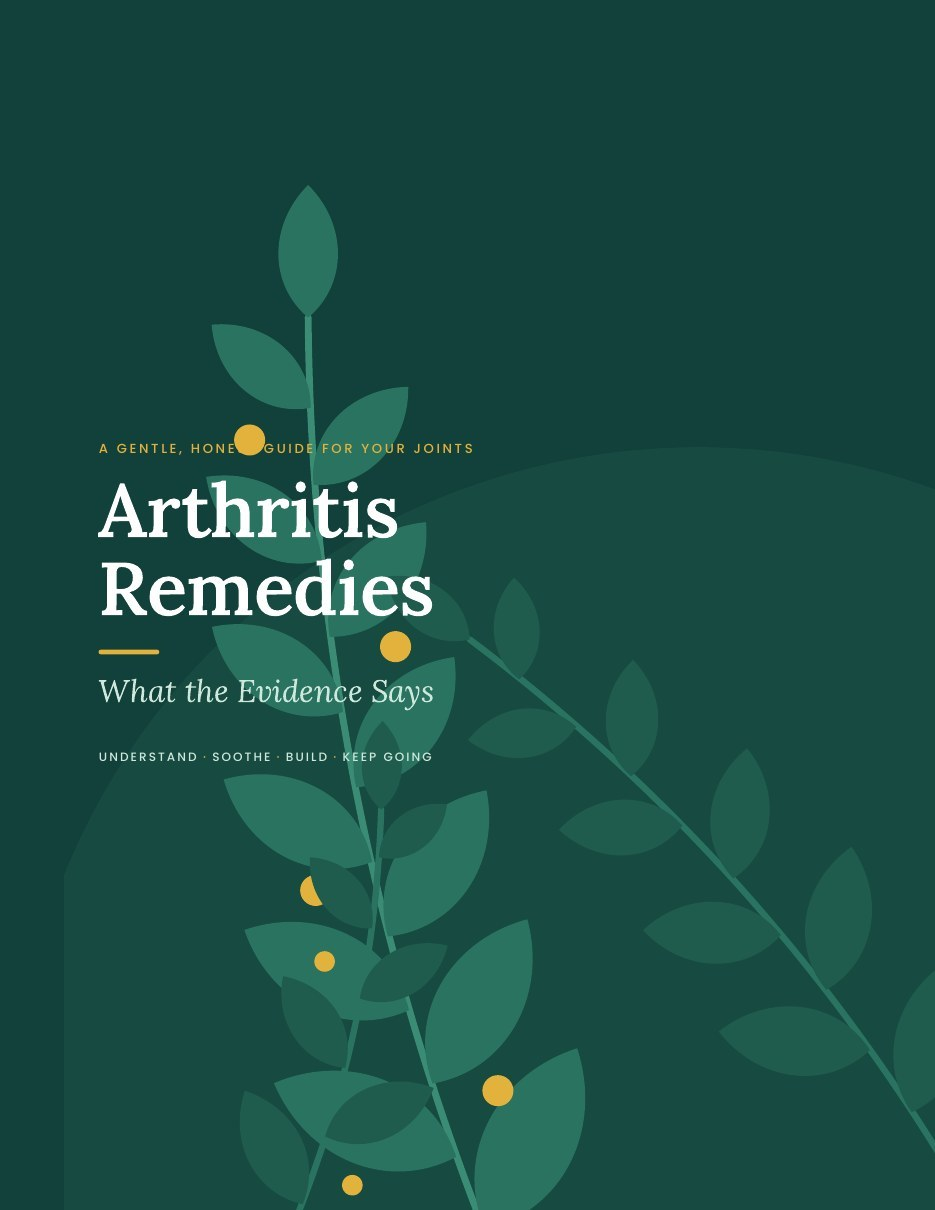
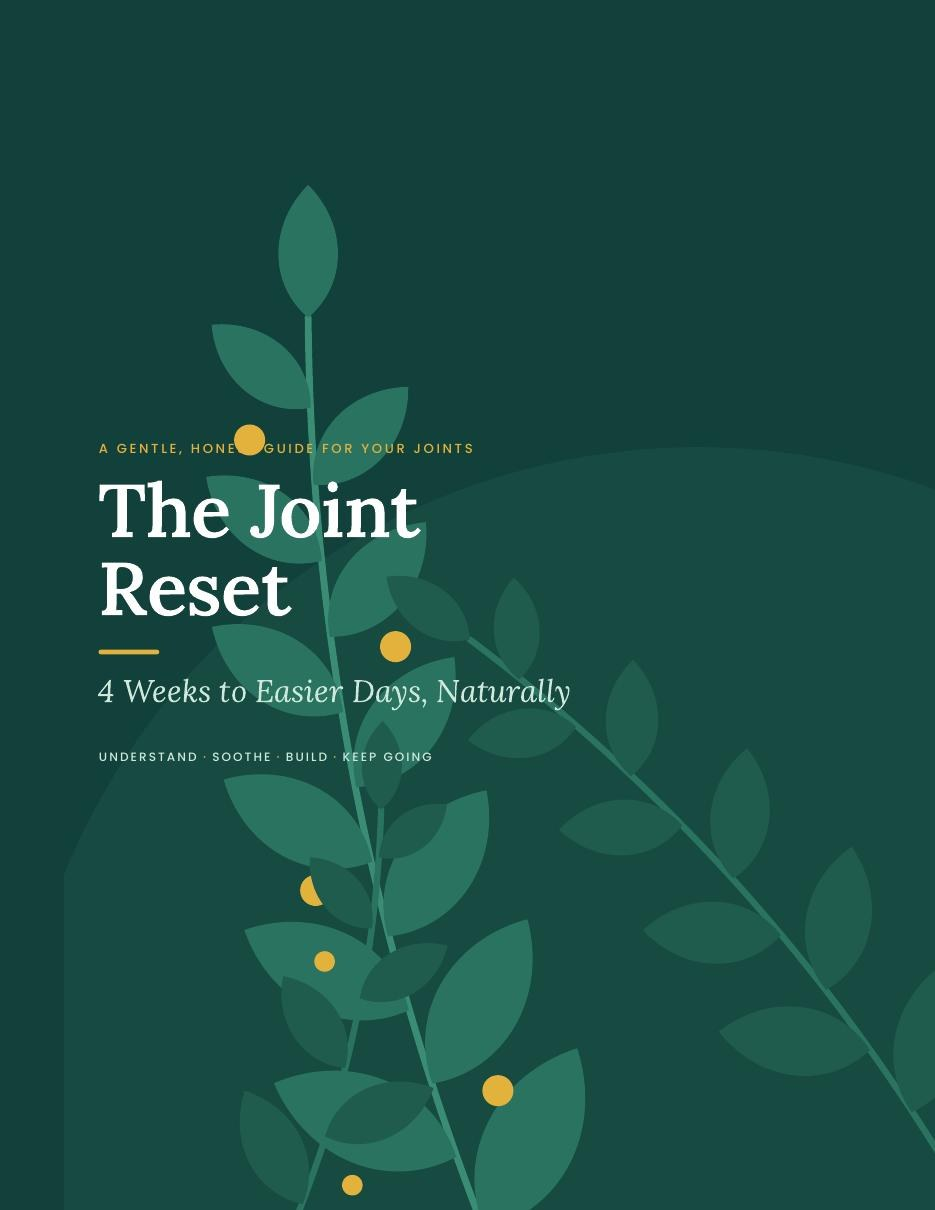
Rename site to Kinder Joints and guide to The Joint Reset; phone field first
Claude-Session: https://claude.ai/code/session_016AkRdspd5VkR5yRHHg7Zph

Changed region(s): [[0.093, 0.3975, 0.4652, 0.5198], [0.093, 0.5504, 0.6203, 0.581]]

diff --git a/signup.html b/signup.html
@@ -3,10 +3,10 @@
 <head>
 <meta charset="utf-8">
 <meta name="viewport" content="width=device-width, initial-scale=1">
-<title>Get your guide | Arthritis Remedies</title>
-<meta name="description" content="Tell us where to send your Arthritis Remedies guide.">
-<meta property="og:title" content="Get your guide | Arthritis Remedies">
-<meta property="og:description" content="Tell us where to send your Arthritis Remedies guide.">
+<title>Get your guide | Kinder Joints</title>
+<meta name="description" content="Tell us where to send your copy of The Joint Reset.">
+<meta property="og:title" content="Get your guide | Kinder Joints">
+<meta property="og:description" content="Tell us where to send your copy of The Joint Reset.">
 <meta property="og:type" content="website">
 <link rel="canonical" href="https://healthcure5.github.io/arthritis-remedies/signup.html">
 <meta property="og:url" content="https://healthcure5.github.io/arthritis-remedies/signup.html">
@@ -60,14 +60,14 @@ img{max-width:100%}
 <div class="bob" aria-hidden="true" style="position: absolute; left: 8%; bottom: 40px; width: 76px; height: 76px; border-radius: 50%; background: radial-gradient(circle at 32% 28%, #D3E5F7 0%, #A6CBEE 60%, #7FB1E3 100%); box-shadow: 0 18px 28px -10px rgba(8, 24, 48, 0.6)"></div>
 <a href="index.html" style="position: relative; display: flex; align-items: center; gap: 10px; text-decoration: none; color: #FFFFFF; font-family: 'Lora', Georgia, 'Times New Roman', serif; font-weight: 700; font-size: 22px; min-height: 44px">
 <svg aria-hidden="true" width="32" height="32" viewBox="0 0 32 32"><circle cx="16" cy="16" r="16" fill="#FFFFFF"/><path d="M9 17c3-6 11-6 14 0" stroke="#1A4FB0" stroke-width="3" fill="none" stroke-linecap="round"/><circle cx="16" cy="21" r="2.4" fill="#1A4FB0"/></svg>
-Arthritis Remedies
+Kinder Joints
 </a>
 <div style="position: relative">
 <h1 style="margin: 0; font-family: 'Lora', Georgia, 'Times New Roman', serif; font-weight: 700; font-size: clamp(34px, 4.2vw, 52px); line-height: 1.05; letter-spacing: -0.015em; color: #FFFFFF; text-shadow: 0 3px 0 #103A8A, 0 14px 24px rgba(8, 24, 48, 0.45)">You're one step from honest answers.</h1>
 <p style="margin: 18px 0 0; font-size: 18px; max-width: 460px">Tell us where to send your guide. It takes about ten seconds.</p>
 </div>
 <div style="position: relative; display: flex; align-items: center; gap: 34px; flex-wrap: wrap">
-<div class="bob" style="flex: none; width: 150px"><img width="935" height="1210" decoding="async" src="images/guide-cover.jpg" alt="Cover of the Arthritis Remedies guide" style="display: block; width: 100%; border-radius: 4px 9px 9px 4px; transform: perspective(900px) rotateY(18deg) rotate(-4deg); box-shadow: -6px 0 0 #0C2F2A, 0 18px 28px rgba(8, 24, 48, 0.4), 0 44px 56px -12px rgba(8, 24, 48, 0.7)"></div>
+<div class="bob" style="flex: none; width: 150px"><img width="935" height="1210" decoding="async" src="images/guide-cover.jpg" alt="Cover of The Joint Reset guide" style="display: block; width: 100%; border-radius: 4px 9px 9px 4px; transform: perspective(900px) rotateY(18deg) rotate(-4deg); box-shadow: -6px 0 0 #0C2F2A, 0 18px 28px rgba(8, 24, 48, 0.4), 0 44px 56px -12px rgba(8, 24, 48, 0.7)"></div>
 <ul style="flex: 1 1 220px; margin: 0; padding: 0; list-style: none; display: flex; flex-direction: column; gap: 14px; font-weight: 500; color: #FFFFFF">
 <li style="display: flex; gap: 12px; align-items: flex-start"><svg aria-hidden="true" width="24" height="24" viewBox="0 0 24 24" style="flex: none"><circle cx="12" cy="12" r="12" fill="#FFC56B"/><path d="M17 8.5 10.5 15 7 11.5" fill="none" stroke="#0A1F44" stroke-width="2.2" stroke-linecap="round" stroke-linejoin="round"/></svg><span>Sent to your inbox in minutes</span></li>
 <li style="display: flex; gap: 12px; align-items: flex-start"><svg aria-hidden="true" width="24" height="24" viewBox="0 0 24 24" style="flex: none"><circle cx="12" cy="12" r="12" fill="#FFC56B"/><path d="M17 8.5 10.5 15 7 11.5" fill="none" stroke="#0A1F44" stroke-width="2.2" stroke-linecap="round" stroke-linejoin="round"/></svg><span>Read on any screen, or print it</span></li>
@@ -80,13 +80,18 @@ Arthritis Remedies
 <div style="flex: 1.2 1 460px; min-width: 0; padding: clamp(28px, 5vw, 72px) clamp(20px, 5vw, 72px); box-sizing: border-box; display: flex; align-items: center; justify-content: center">
 <form class="settle" id="signup" name="guide-signup" method="POST" action="https://formsubmit.co/cgmandrez@gmail.com" novalidate style="width: 100%; max-width: 520px; background: #FFFFFF; border-radius: 32px; padding: clamp(26px, 4vw, 44px); box-sizing: border-box; box-shadow: inset 0 2px 0 #FFFFFF, 0 2px 4px rgba(16, 40, 74, 0.06), 0 18px 30px -10px rgba(16, 40, 74, 0.14), 0 60px 80px -34px rgba(16, 40, 74, 0.45); display: flex; flex-direction: column; gap: 20px">
 <input type="hidden" name="_next" value="https://healthcure5.github.io/arthritis-remedies/thank-you.html">
-<input type="hidden" name="_subject" value="New signup for the Arthritis Remedies guide">
+<input type="hidden" name="_subject" value="New signup for The Joint Reset guide">
 <input type="hidden" name="_template" value="table">
-<input type="hidden" name="_autoresponse" value="Welcome, and congratulations. Your Arthritis Remedies guide has arrived.&#10;&#10;We&#x27;re so glad you&#x27;re here. Asking for this guide was a real step toward easier days, and we don&#x27;t take that lightly.&#10;&#10;YOUR GUIDE IS READY. OPEN IT HERE:&#10;https://healthcure5.github.io/arthritis-remedies/arthritis-remedies-guide.pdf&#10;&#10;Here&#x27;s what is waiting for you inside:&#10;&#10;- Honest answers on which natural remedies are worth your time, and which you can happily let go of.&#10;- Clear labels on every remedy, so you know at a glance how strong the evidence is.&#10;- A gentle four-week plan that builds one small habit at a time.&#10;- Simple ways to track your progress, so you can see how far you&#x27;ve come.&#10;&#10;Want a good place to begin? Open the guide, read the first few pages (about five minutes), and choose one small thing to try this week. That&#x27;s all. Small steps add up faster than you&#x27;d think.&#10;&#10;There&#x27;s no rush and no falling behind. Some days will be easier than others. On the hard ones, be as kind to yourself as you would be to a dear friend.&#10;&#10;Keep this email somewhere safe, so your guide is always one tap away.&#10;&#10;We&#x27;re cheering for you.&#10;&#10;With care,&#10;Arthritis Remedies&#10;&#10;This guide offers general information, not personal medical advice. Please keep taking anything you have been prescribed, and talk with your doctor or pharmacist before starting a new remedy or supplement.">
+<input type="hidden" name="_autoresponse" value="Welcome, and congratulations. Your copy of The Joint Reset has arrived.&#10;&#10;We&#x27;re so glad you&#x27;re here. Asking for this guide was a real step toward easier days, and we don&#x27;t take that lightly.&#10;&#10;YOUR GUIDE IS READY. OPEN IT HERE:&#10;https://healthcure5.github.io/arthritis-remedies/the-joint-reset.pdf&#10;&#10;Here&#x27;s what is waiting for you inside:&#10;&#10;- Honest answers on which natural remedies are worth your time, and which you can happily let go of.&#10;- Clear labels on every remedy, so you know at a glance how strong the evidence is.&#10;- A gentle four-week plan that builds one small habit at a time.&#10;- Simple ways to track your progress, so you can see how far you&#x27;ve come.&#10;&#10;Want a good place to begin? Open the guide, read the first few pages (about five minutes), and choose one small thing to try this week. That&#x27;s all. Small steps add up faster than you&#x27;d think.&#10;&#10;There&#x27;s no rush and no falling behind. Some days will be easier than others. On the hard ones, be as kind to yourself as you would be to a dear friend.&#10;&#10;Keep this email somewhere safe, so your guide is always one tap away.&#10;&#10;We&#x27;re cheering for you.&#10;&#10;With care,&#10;Kinder Joints&#10;&#10;This guide offers general information, not personal medical advice. Please keep taking anything you have been prescribed, and talk with your doctor or pharmacist before starting a new remedy or supplement.">
 <input type="text" name="_honey" tabindex="-1" autocomplete="off" aria-hidden="true" style="display: none">
 <div>
 <div style="font-size: 14px; font-weight: 700; letter-spacing: 0.14em; text-transform: uppercase; color: #1A4FB0">Step 2 of 3</div>
 <h2 style="margin: 8px 0 0; font-family: 'Lora', Georgia, 'Times New Roman', serif; font-weight: 700; font-size: 32px; line-height: 1.1; color: #0A1F44">Where should we send it?</h2>
+</div>
+<div style="display: flex; flex-direction: column; gap: 7px">
+<label for="phone" style="font-weight: 600; font-size: 15.5px; color: #0A1F44">Phone number <span style="font-weight: 400; color: #4F6580">(optional)</span></label>
+<input id="phone" name="Phone number" type="tel" inputmode="tel" autocomplete="tel" placeholder="(555) 123-4567" style="font: inherit; padding: 14px 16px; border: 1.5px solid #AEC6DF; border-radius: 14px; background: #F4F8FC; color: #0A1F44; width: 100%; box-sizing: border-box; min-height: 52px; box-shadow: inset 0 3px 6px rgba(16, 40, 74, 0.1)">
+<span style="font-size: 14px; color: #4F6580">Only if you'd like us to be able to reach you by phone.</span>
 </div>
 <div style="display: flex; flex-wrap: wrap; gap: 16px">
 <div style="flex: 1 1 180px; min-width: 0; display: flex; flex-direction: column; gap: 7px">
@@ -98,11 +103,6 @@ Arthritis Remedies
 <label for="email" style="font-weight: 600; font-size: 15.5px; color: #0A1F44">Email address</label>
 <input id="email" name="email" type="email" autocomplete="email" placeholder="jane@example.com" style="font: inherit; padding: 14px 16px; border: 1.5px solid #AEC6DF; border-radius: 14px; background: #F4F8FC; color: #0A1F44; width: 100%; box-sizing: border-box; min-height: 52px; box-shadow: inset 0 3px 6px rgba(16, 40, 74, 0.1)">
 <span style="font-size: 14px; color: #4F6580">We'll email your guide here.</span>
-</div>
-<div style="display: flex; flex-direction: column; gap: 7px">
-<label for="phone" style="font-weight: 600; font-size: 15.5px; color: #0A1F44">Phone number <span style="font-weight: 400; color: #4F6580">(optional)</span></label>
-<input id="phone" name="Phone number" type="tel" inputmode="tel" autocomplete="tel" placeholder="(555) 123-4567" style="font: inherit; padding: 14px 16px; border: 1.5px solid #AEC6DF; border-radius: 14px; background: #F4F8FC; color: #0A1F44; width: 100%; box-sizing: border-box; min-height: 52px; box-shadow: inset 0 3px 6px rgba(16, 40, 74, 0.1)">
-<span style="font-size: 14px; color: #4F6580">Only if you'd like us to be able to reach you by phone.</span>
 </div>
 <label style="display: flex; gap: 12px; align-items: flex-start; font-size: 15.5px; cursor: pointer; min-height: 44px">
 <input type="checkbox" name="Wants tips by email" value="Yes" style="width: 22px; height: 22px; margin: 2px 0 0; accent-color: #1A4FB0; flex: none">

diff --git a/index.html b/index.html
@@ -3,9 +3,9 @@
 <head>
 <meta charset="utf-8">
 <meta name="viewport" content="width=device-width, initial-scale=1">
-<title>Arthritis Remedies: a gentle, honest guide to joint care</title>
+<title>Kinder Joints: a gentle, honest guide to joint care</title>
 <meta name="description" content="Find out which natural arthritis remedies are worth your time, which to let go of, and how to build a simple daily routine, one small step at a time.">
-<meta property="og:title" content="Arthritis Remedies: a gentle, honest guide to joint care">
+<meta property="og:title" content="Kinder Joints: a gentle, honest guide to joint care">
 <meta property="og:description" content="Find out which natural arthritis remedies are worth your time, which to let go of, and how to build a simple daily routine, one small step at a time.">
 <meta property="og:type" content="website">
 <link rel="canonical" href="https://healthcure5.github.io/arthritis-remedies/">
@@ -90,7 +90,7 @@ section[id]{scroll-margin-top:84px}
 <div class="hdr-in" style="max-width: 1180px; margin: 0 auto; padding: 18px 24px; display: flex; flex-wrap: wrap; align-items: center; justify-content: space-between; gap: 12px 28px">
 <a class="hdr-brand" href="#top" style="display: flex; align-items: center; gap: 10px; text-decoration: none; color: #0A1F44; font-family: 'Lora', Georgia, 'Times New Roman', serif; font-weight: 700; font-size: 22px; min-height: 44px">
 <svg aria-hidden="true" width="32" height="32" viewBox="0 0 32 32"><circle cx="16" cy="16" r="16" fill="#1A4FB0"/><path d="M9 17c3-6 11-6 14 0" stroke="#FFC56B" stroke-width="3" fill="none" stroke-linecap="round"/><circle cx="16" cy="21" r="2.4" fill="#FFC56B"/></svg>
-Arthritis Remedies
+Kinder Joints
 </a>
 <nav class="hdr-nav" aria-label="Main" style="display: flex; flex-wrap: wrap; align-items: center; gap: 4px 28px; font-size: 15.5px; font-weight: 500">
 <a href="#how" class="hdr-link" style="color: #0A1F44; text-decoration: none; padding: 11px 0">How it works</a>
@@ -377,7 +377,7 @@ One small step today
 <section id="get" style="background: #F4F8FC">
 <div style="max-width: 1180px; margin: 0 auto; padding: 92px 24px">
 <div class="rv" style="background: var(--grain), radial-gradient(circle at 20% 0%, #3D7FE6 0%, #1A4FB0 55%, #103A8A 100%); border-radius: 44px; padding: clamp(32px, 5vw, 68px); display: flex; flex-wrap: wrap; align-items: center; gap: 36px 60px; box-shadow: inset 0 2px 0 rgba(255, 255, 255, 0.16), 0 60px 80px -44px rgba(20, 62, 150, 0.8)">
-<div class="bob" style="flex: 0 1 220px; min-width: 150px; margin: 0 auto"><img width="935" height="1210" loading="lazy" decoding="async" src="images/guide-cover.jpg" alt="Cover of the Arthritis Remedies guide" style="display: block; width: 100%; border-radius: 4px 10px 10px 4px; transform: perspective(1000px) rotateY(18deg) rotate(-4deg); box-shadow: -7px 0 0 #0C2F2A, 0 18px 28px rgba(8, 24, 48, 0.4), 0 46px 60px -12px rgba(8, 24, 48, 0.7)"></div>
+<div class="bob" style="flex: 0 1 220px; min-width: 150px; margin: 0 auto"><img width="935" height="1210" loading="lazy" decoding="async" src="images/guide-cover.jpg" alt="Cover of The Joint Reset guide" style="display: block; width: 100%; border-radius: 4px 10px 10px 4px; transform: perspective(1000px) rotateY(18deg) rotate(-4deg); box-shadow: -7px 0 0 #0C2F2A, 0 18px 28px rgba(8, 24, 48, 0.4), 0 46px 60px -12px rgba(8, 24, 48, 0.7)"></div>
 <div style="flex: 1 1 380px; min-width: 0">
 <h2 style="margin: 0; font-family: 'Lora', Georgia, 'Times New Roman', serif; font-weight: 700; font-size: clamp(34px, 4.4vw, 56px); line-height: 1.04; letter-spacing: -0.015em; color: #FFFFFF">Go gently. Take what helps.</h2>
 <p style="margin: 18px 0 0; font-size: 19px; color: #E6F0FA">Start with one small win today. You're not doing this alone.</p>
@@ -394,9 +394,9 @@ One small step today
 <footer style="background: var(--grain), radial-gradient(120% 140% at 15% 0%, #163E94 0%, #0A1F44 62%, #061430 100%); color: #C7D8EA">
 <div style="max-width: 1180px; margin: 0 auto; padding: 44px 24px 52px; display: flex; flex-wrap: wrap; gap: 24px 60px; justify-content: space-between; font-size: 14.5px; line-height: 1.6">
 <div style="flex: 1 1 260px; min-width: 0">
-<div style="font-family: 'Lora', Georgia, 'Times New Roman', serif; font-weight: 700; font-size: 21px; color: #FFFFFF">Arthritis Remedies</div>
-<div style="margin-top: 6px">What the Evidence Says</div>
-<div style="margin-top: 14px">© 2026 Arthritis Remedies. All rights reserved.</div>
+<div style="font-family: 'Lora', Georgia, 'Times New Roman', serif; font-weight: 700; font-size: 21px; color: #FFFFFF">Kinder Joints</div>
+<div style="margin-top: 6px">Home of The Joint Reset guide</div>
+<div style="margin-top: 14px">© 2026 Kinder Joints. All rights reserved.</div>
 </div>
 <p style="flex: 2 1 420px; min-width: 0; margin: 0">This guide offers general information, not personal medical advice. It does not diagnose, treat or cure any condition. Please keep taking anything you have been prescribed, and talk with your doctor or pharmacist before starting a new remedy or supplement.</p>
 </div>

diff --git a/thank-you.html b/thank-you.html
@@ -3,10 +3,10 @@
 <head>
 <meta charset="utf-8">
 <meta name="viewport" content="width=device-width, initial-scale=1">
-<title>Thank you | Arthritis Remedies</title>
-<meta name="description" content="Thank you. Your Arthritis Remedies guide is ready.">
-<meta property="og:title" content="Thank you | Arthritis Remedies">
-<meta property="og:description" content="Thank you. Your Arthritis Remedies guide is ready.">
+<title>Thank you | Kinder Joints</title>
+<meta name="description" content="Thank you. Your copy of The Joint Reset is ready.">
+<meta property="og:title" content="Thank you | Kinder Joints">
+<meta property="og:description" content="Thank you. Your copy of The Joint Reset is ready.">
 <meta property="og:type" content="website">
 <link rel="canonical" href="https://healthcure5.github.io/arthritis-remedies/thank-you.html">
 <meta property="og:url" content="https://healthcure5.github.io/arthritis-remedies/thank-you.html">
@@ -71,7 +71,7 @@ a{color:#103A8A}a:hover{color:#0A1F44}
 <header style="position: relative; padding: 22px 24px">
 <a href="index.html" style="display: inline-flex; align-items: center; gap: 10px; text-decoration: none; color: #0A1F44; font-family: 'Lora', Georgia, 'Times New Roman', serif; font-weight: 700; font-size: 22px; min-height: 44px">
 <svg aria-hidden="true" width="32" height="32" viewBox="0 0 32 32"><circle cx="16" cy="16" r="16" fill="#1A4FB0"/><path d="M9 17c3-6 11-6 14 0" stroke="#FFC56B" stroke-width="3" fill="none" stroke-linecap="round"/><circle cx="16" cy="21" r="2.4" fill="#FFC56B"/></svg>
-Arthritis Remedies
+Kinder Joints
 </a>
 </header>
 

diff --git a/README.md b/README.md
@@ -1,5 +1,5 @@
-# Arthritis Remedies
+# Kinder Joints
 
-The website for the Arthritis Remedies guide: a landing page, a details page and a thank-you page.
+The Kinder Joints website, home of The Joint Reset guide: a landing page, a details page and a thank-you page.
 
 Live at https://healthcure5.github.io/arthritis-remedies/
